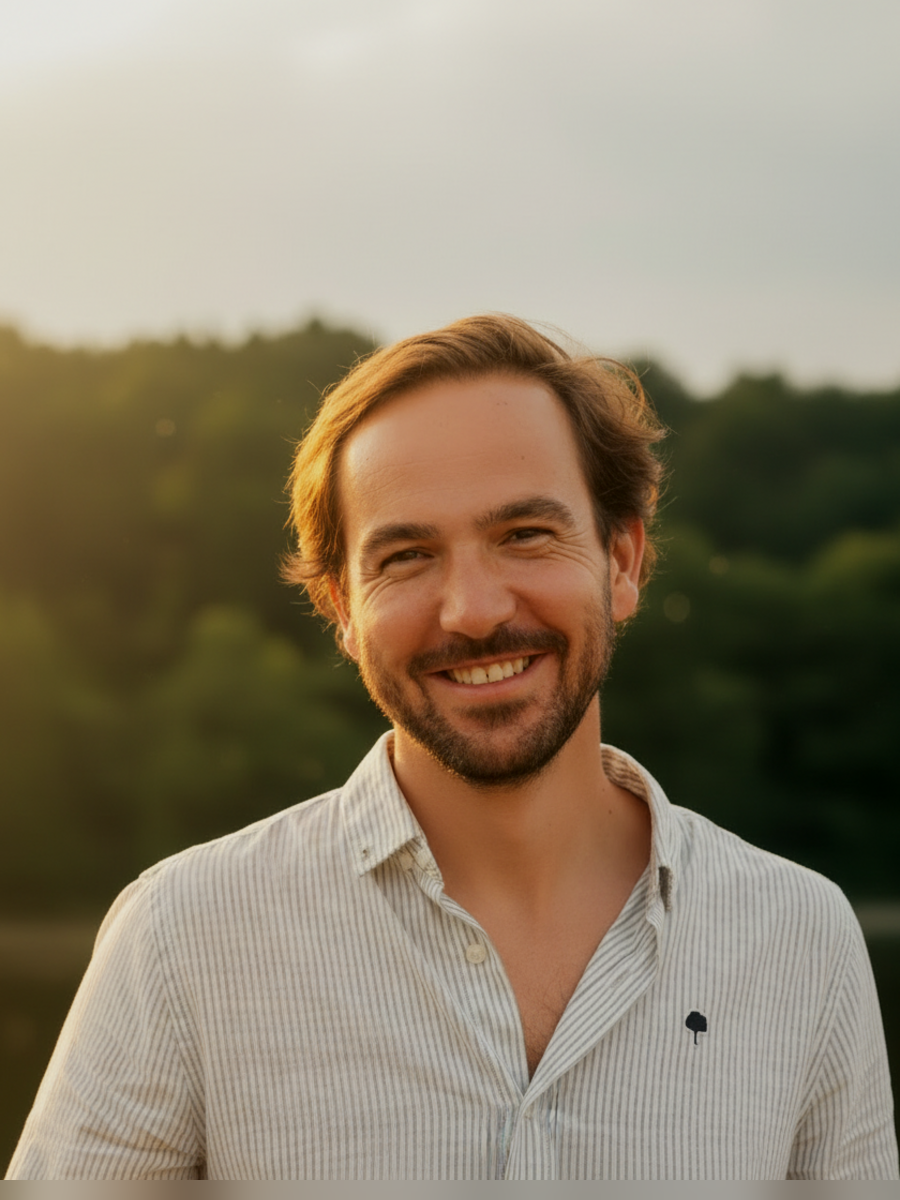
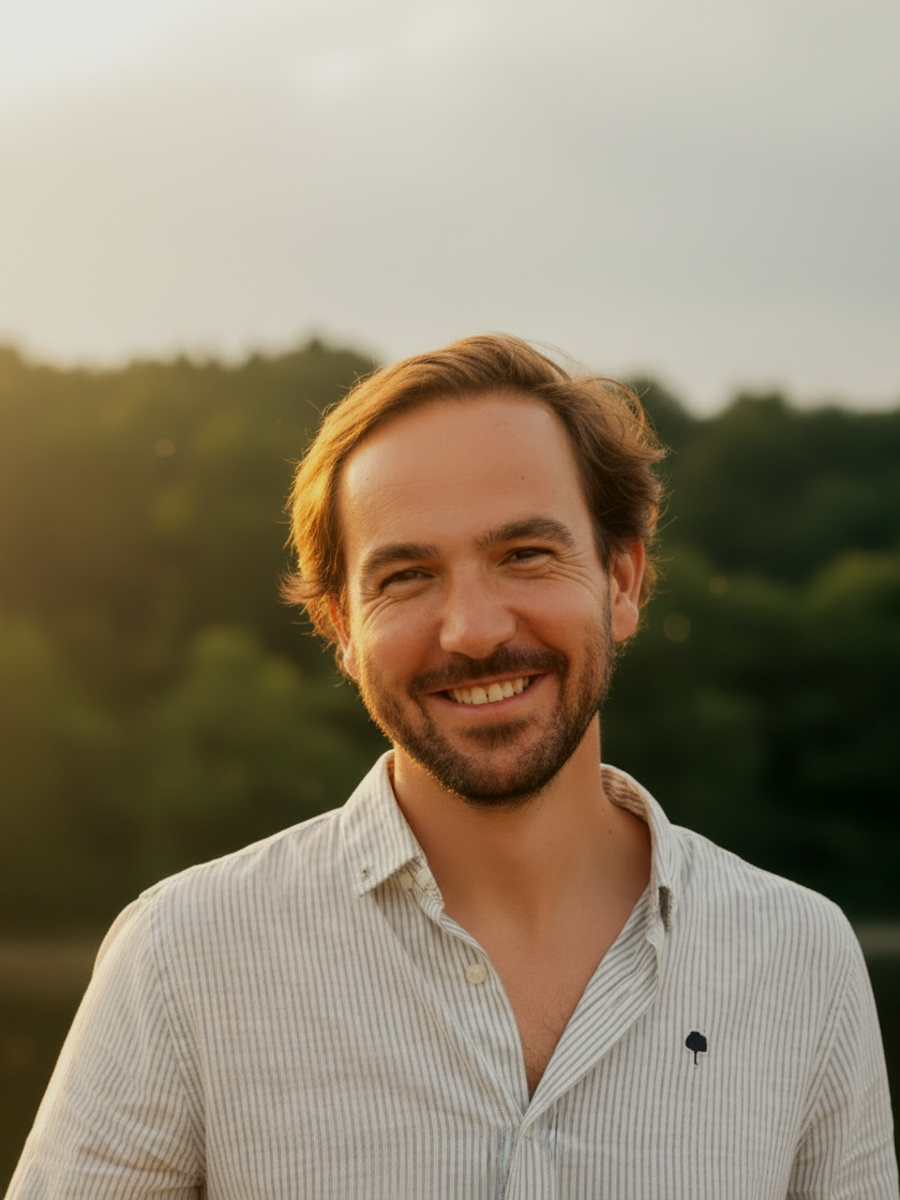
fix: property grid same as PropertiesPage + Thomas photo sky
GRID: Replace featured__grid class (CSS not loaded since FeaturedProjects
removed from homepage) with inline grid identical to PropertiesPage:
repeat(auto-fill, minmax(320px, 1fr))

THOMAS: Add 80px sky on top, crop 80px body from bottom.
Now matches Maxime/Carl sky-to-head ratio.
MAXIME: Restored to original (prior shifts unnecessary).

https://claude.ai/code/session_01WfcdLUCpeSBFYfx38U6ocF

diff --git a/versi-immobilier/src/components/AvailableProperties.jsx b/versi-immobilier/src/components/AvailableProperties.jsx
@@ -14,7 +14,11 @@ export default function AvailableProperties() {
 
         {available.length > 0 ? (
           <>
-            <div className="featured__grid">
+            <div style={{
+              display: 'grid',
+              gridTemplateColumns: 'repeat(auto-fill, minmax(320px, 1fr))',
+              gap: 'var(--spacing-lg)',
+            }}>
               {available.map((property) => (
                 <PropertyCard key={property.id} property={property} />
               ))}
